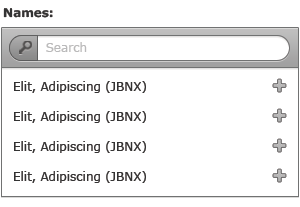
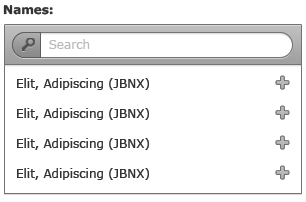
Fix table header buttons hiding. Fix width of Name & Recipient boxes. Fix step indicator checkbox rounded corners IE8.

Changed region(s): [[0.0, 0.1188, 1.0, 0.9802], [0.0, 0.0297, 0.18, 0.0891]]

diff --git a/demo/app-styles.css b/demo/app-styles.css
@@ -2088,7 +2088,7 @@ table.nested-table {
 }
 }
 
-@media only screen and (max-width: 1133px) {
+@media only screen and (max-width: 1168px) {
 .table-header-action {
 	height: auto;
 	padding-bottom: 1px;
@@ -2449,6 +2449,7 @@ color:red;
 	-moz-box-shadow: 0px -1px #888, inset 0px -1x white;
 	-webkit-box-shadow: 0px -1px #888, inset 0px -1px white;
 	box-shadow: 0px -1px #888, inset 0px -1px white;
+	border:1px solid rgb(165, 165, 165)\0/;
 }
 
 /*.circle.circle-active {
